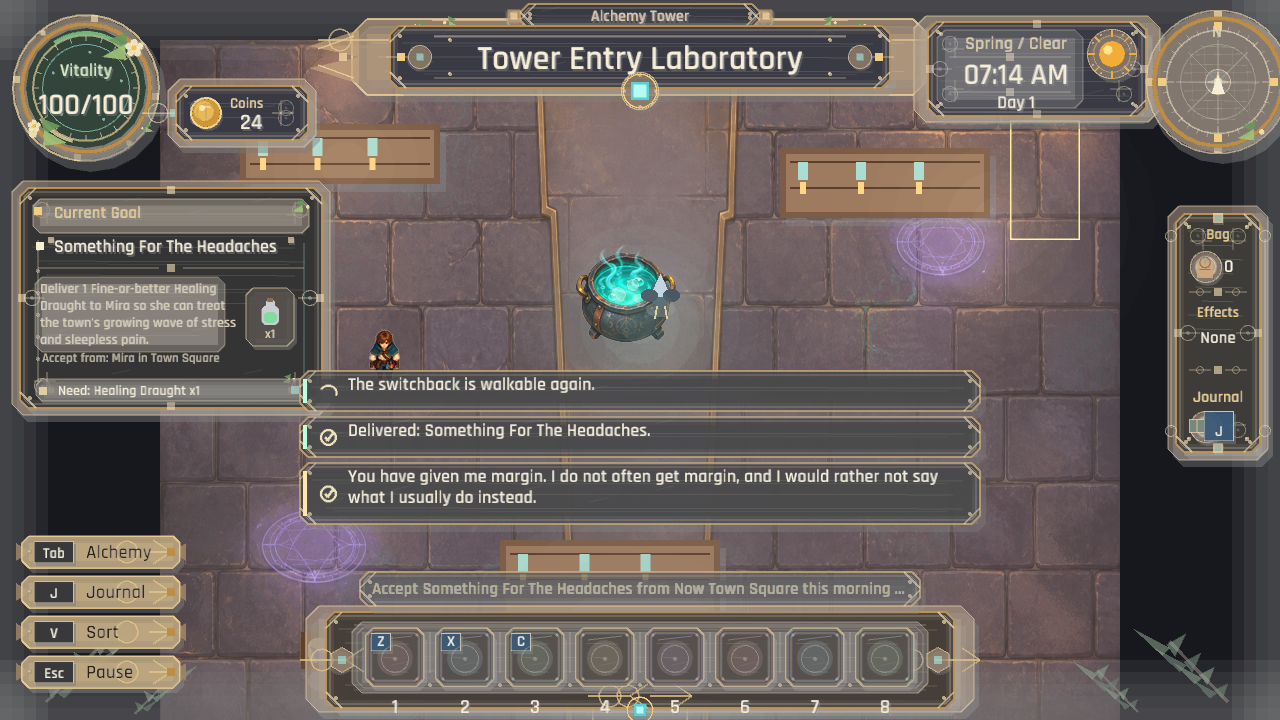
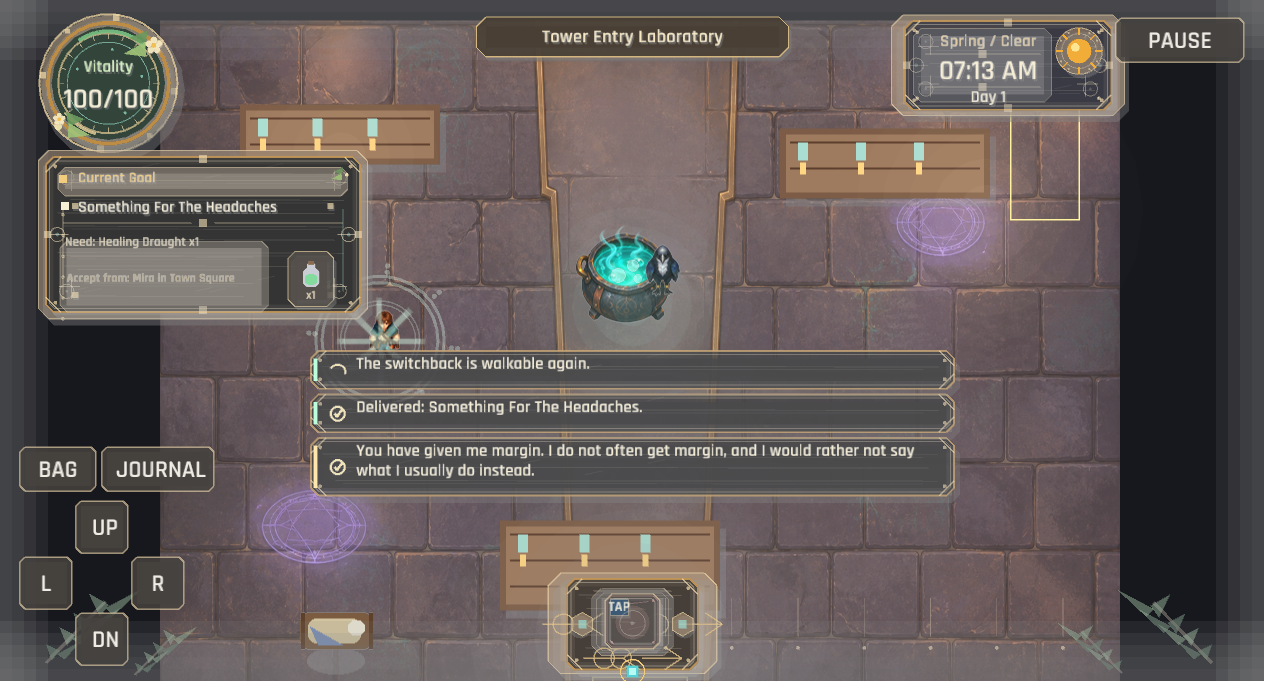
The tower lets ordinary notices fade after they are heard (expiring status feedback)
Ordinary exploration and action results now occupy the status strip for a short, explicit window instead of remaining as stale text after the player has moved on. State-driven warnings remain independent, while fresh and expired toast captures show the event feedback taking visual priority at 1280x720 and 960x540.\n\nThe direct project suite passed 236/236, and .\\publish.ps1 completed Windows and WebGL packaging plus Preview deployment after temporarily excluding the pre-existing nested idle_hands and apartment workspaces from the parent Cargo workspace; those exclusions were removed immediately after publishing. Live native touch taps remain unavailable, so UI-06 stays in todo.md for that final interaction pass.\n\nCo-Authored-By: GPT-5 (Codex) <noreply@openai.com>

diff --git a/src/state/gameplay_loop.rs b/src/state/gameplay_loop.rs
@@ -12,22 +12,27 @@ use macroquad::prelude::get_frame_time;
 #[path = "gameplay_loop_status_text.rs"]
 mod loop_status_text;
 
+const STATUS_TEXT_SECONDS: f32 = 2.8;
+
 impl GameplayState {
     pub(crate) fn update(
         &mut self,
         data: &GameData,
         audio: &AudioAssets,
     ) -> Option<StateTransition> {
+        let previous_status = self.runtime.status_text.clone();
         if cancel_pressed() {
             if let Some(overlay) = self.overlay().cloned() {
                 self.clear_overlay();
                 self.runtime.status_text = self.closed_overlay_status(&overlay);
+                self.runtime.status_text_seconds = STATUS_TEXT_SECONDS;
                 return None;
             }
             return Some(StateTransition::Pause);
         }
 
         let frame_time = get_frame_time();
+        self.runtime.status_text_seconds = (self.runtime.status_text_seconds - frame_time).max(0.0);
         self.advance_clock(data, frame_time);
         self.handle_sleep_pressure(data);
         self.update_area_banner(data, frame_time);
@@ -44,6 +49,10 @@ impl GameplayState {
 
         self.play_pending_sounds(audio);
         self.handle_save_shortcuts(data);
+
+        if self.runtime.status_text != previous_status {
+            self.runtime.status_text_seconds = STATUS_TEXT_SECONDS;
+        }
 
         transition
     }

diff --git a/src/state/gameplay_runtime_types.rs b/src/state/gameplay_runtime_types.rs
@@ -16,6 +16,7 @@ pub(super) struct RuntimeState {
     pub(super) sleep_flash_seconds: f32,
     pub(super) npc_motion_states: BTreeMap<String, NpcMotionTracker>,
     pub(super) status_text: String,
+    pub(super) status_text_seconds: f32,
     pub(super) last_brew_setup: Option<SavedAlchemySetup>,
     pub(super) tutorial: TutorialState,
     pub(super) footstep_cooldown_seconds: f32,
@@ -52,6 +53,7 @@ impl RuntimeState {
             sleep_flash_seconds: 0.0,
             npc_motion_states: BTreeMap::new(),
             status_text: String::new(),
+            status_text_seconds: 0.0,
             last_brew_setup: None,
             tutorial: TutorialState::default(),
             footstep_cooldown_seconds: 0.0,

diff --git a/src/state/gameplay_hud_view.rs b/src/state/gameplay_hud_view.rs
@@ -59,7 +59,9 @@ impl GameplayState {
             },
             goal_prefix: ui_copy("hud_current_goal").to_owned(),
             goal: self.hud_goal(data),
-            status_text: self.runtime.status_text.clone(),
+            status_text: (self.runtime.status_text_seconds > 0.0)
+                .then(|| self.runtime.status_text.clone())
+                .unwrap_or_default(),
             area_label: area.name.clone(),
             area_banner_alpha: (self.runtime.area_banner_seconds / 0.8).clamp(0.0, 1.0),
             inventory_label: ui_copy("hud_drawer_inventory").to_owned(),
